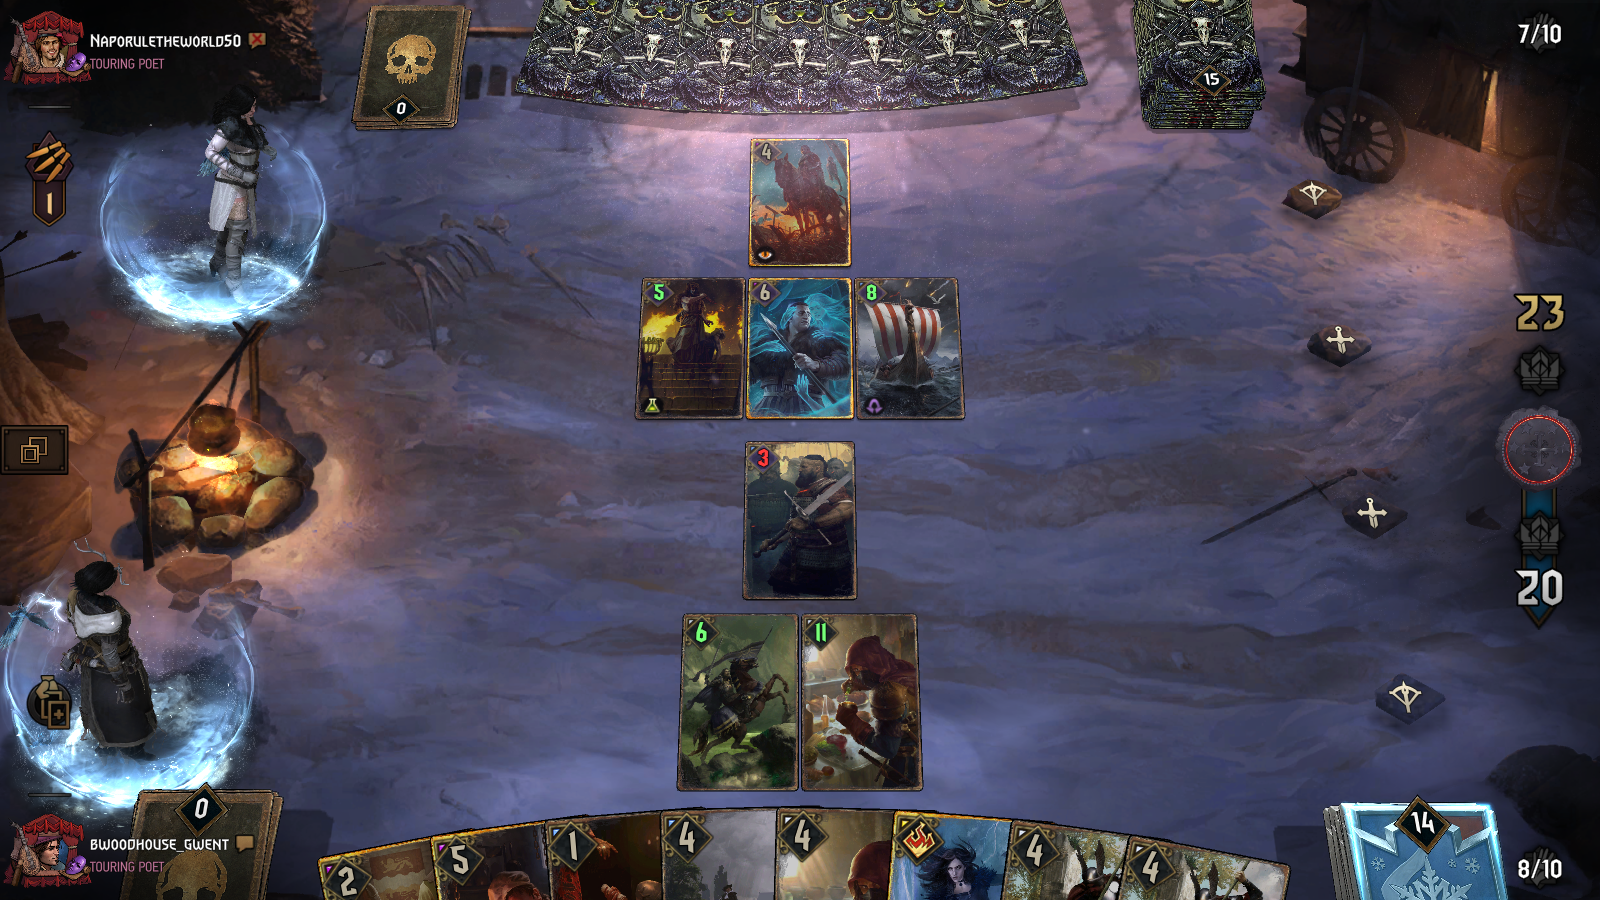
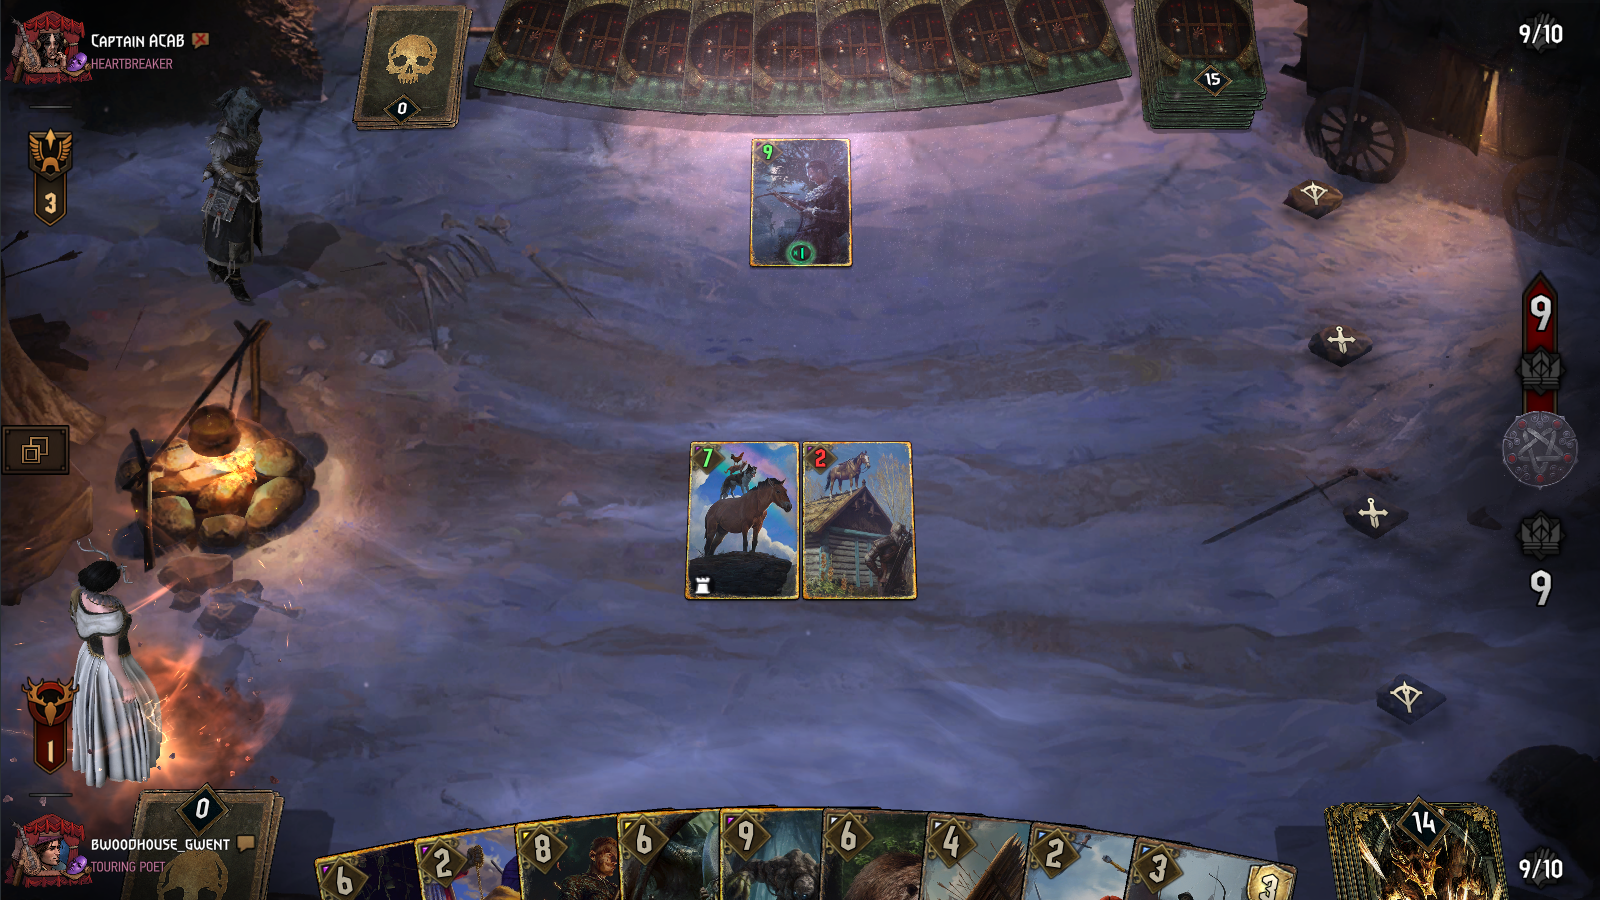
Updated screenshot to determine current player

diff --git a/controller.py b/controller.py
@@ -23,6 +23,9 @@ TODO: Long-term, connect with C++ game simulator and AI engine to make choices
       This script will execute the choices made.
 TODO: Log each game in an easy-to-process manner.
 
+TODO: Dive in and set up scripted AI to play neutral non-interactive unit deck.
+
+TODO: Set up a system to direct follow-up actions when playing a card.
 TODO: Recognize symbols in upper left of card.
 """
 
@@ -210,8 +213,8 @@ class Game:
         self.header_height = 33 # pixels
 
     def action_end_targeting(self):
-        # right click? to end targeting mode
-        pass
+        # right click to end targeting mode
+        pyautogui.click(button='right')
     
     def action_end_turn(self):
         # click button to end turn
@@ -220,7 +223,25 @@ class Game:
     
     def action_order_card(self, row, position):
         # execute order on card in specified row and position
-        pass
+        c = self.board[row][position]
+        
+        # click card to start order
+        row_card_count = len(self.board[row])
+        if row_card_count % 2 == 0:
+            start_index = 4 - (row_card_count // 2)
+            target_coordinates = upper_lefts_even[row][start_index + position]
+            target_coordinates[0] += 10
+            target_coordinates[1] += 10
+        else:
+            start_index = 5 - ((row_card_count + 1) // 2)
+            target_coordinates = upper_lefts_odd[row][start_index + position]
+            target_coordinates[0] += 10
+            target_coordinates[1] += 10
+        
+        pyautogui.dragTo(target_coordinates[1], target_coordinates[0], 0.1)
+        pyautogui.click()
+        
+        # TODO: Follow up with other necessary targeting
     
     def action_hard_pass(self):
         # click and hold end turn button to hard pass
@@ -264,7 +285,23 @@ class Game:
     
     def action_target_card(self, row, position):
         # click card in specified row and position to assign target of action
-        pass
+        c = self.board[row][position]
+        
+        # click card
+        row_card_count = len(self.board[row])
+        if row_card_count % 2 == 0:
+            start_index = 4 - (row_card_count // 2)
+            target_coordinates = upper_lefts_even[row][start_index + position]
+            target_coordinates[0] += 10
+            target_coordinates[1] += 10
+        else:
+            start_index = 5 - ((row_card_count + 1) // 2)
+            target_coordinates = upper_lefts_odd[row][start_index + position]
+            target_coordinates[0] += 10
+            target_coordinates[1] += 10
+        
+        pyautogui.dragTo(target_coordinates[1], target_coordinates[0], 0.1)
+        pyautogui.click()
     
     def analyze_game_state(self):
         # observe and record everything possible about the current game state
@@ -852,6 +889,7 @@ class Game:
     
     def identify_current_player(self):
         # use coin image to identify current player
+        # look for blue or red banner next to coin
         pass
     
     def identify_enemy_leader_ability(self):
@@ -1710,7 +1748,7 @@ if __name__ == "__main__":
     time.sleep(3)
     
     # uncomment to take screenshot for development
-    #take_screenshot()
+    g.take_screenshot()
     
     # uncomment to create image hash references based on image library of cards
     # names, hashes = train_card_classifier()
@@ -1734,9 +1772,12 @@ if __name__ == "__main__":
     #train_digit_classifier()
     #identify_mulligan_choices()
     
-    g.identify_allied_hand()
-    g.identify_board()
-    g.action_play_card(0, 2, 0)
+    player = g.identify_current_player()
+    print(player)
+    
+    # g.identify_allied_hand()
+    # g.identify_board()
+    # g.action_play_card(0, 2, 0)
     
     #action_hard_pass()
     
